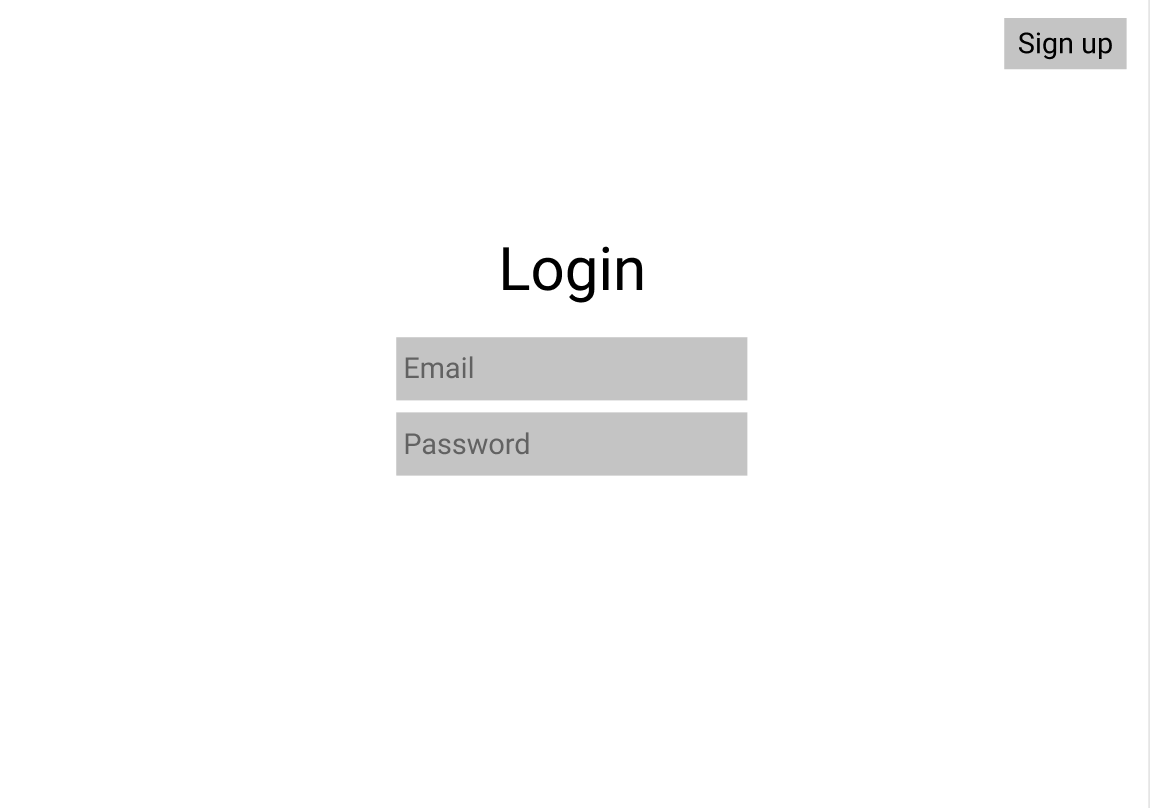
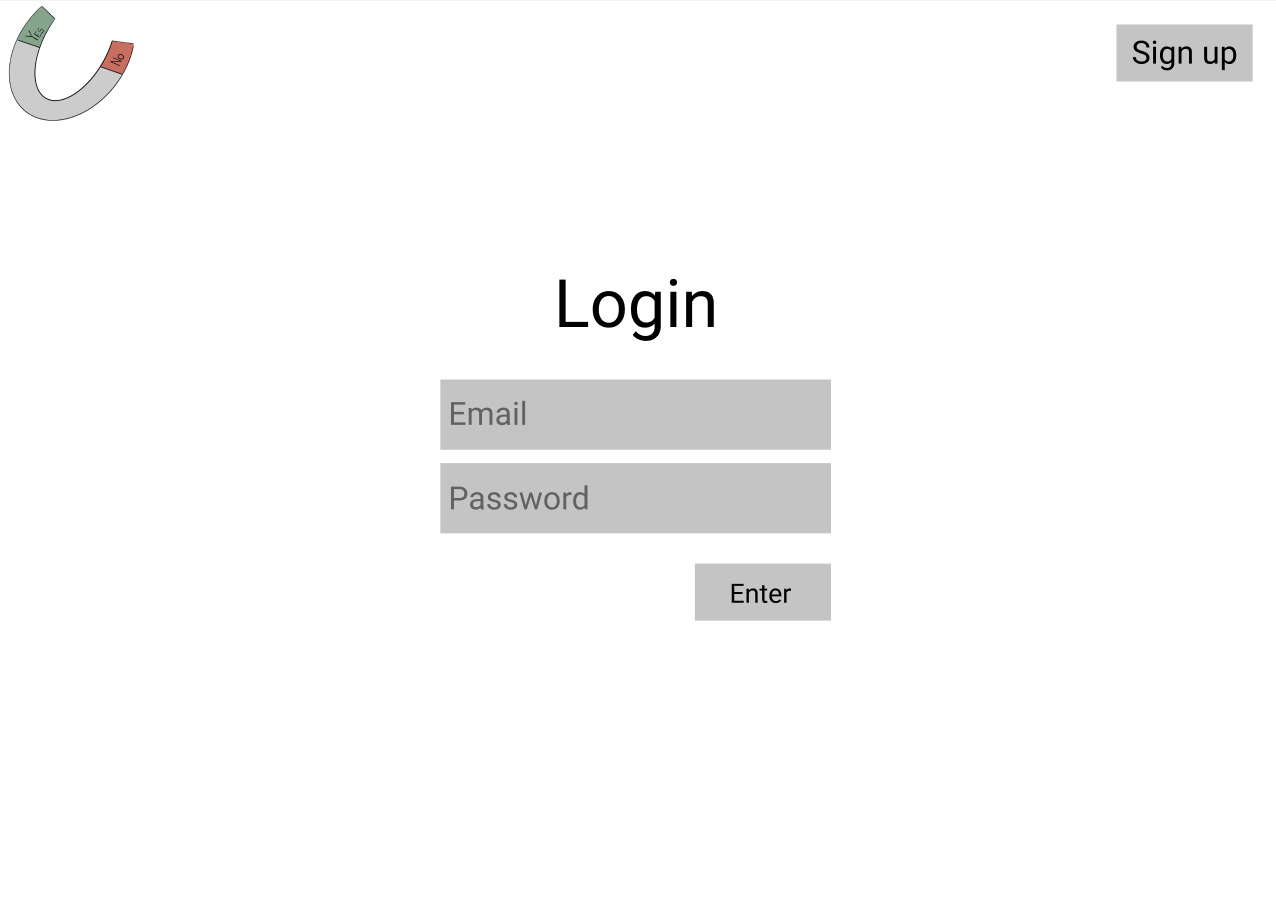
Updated all the mockups

diff --git a/designdocument/Design.md b/designdocument/Design.md
@@ -68,14 +68,39 @@ cloud-based web-application.
 ## User Screens Mock-Ups
 
 ### Front Page
+The frontpage where one can choose between sing up, login or entering a pollcode.
+As of now, one has to hit enter after writing in a valid pollcode to access poll.
+Might consider adding a button for it.
+
 ![](mockups/Startpage.png "")
 
 ### Login and Sign Up Pages
+Some rather standard pages for login and sign up.
+Might be reasonable to only have one field for name, 
+since we will most likely be adding them together.
 ![](mockups/Loginpage.png "")
 ![](mockups/Signuppage.png "")
 
 ### Home Page
-![](mockups/Homepage.png "")
+The homepage is used to give an overview.
+The active user can on the "current" tab see their current active polls.
+On the "closed" tab they can look at closed polls. 
+Has added some different variants of how it may look,
+depending on if it was created with a set closing date or not. 
+And how to know if the poll is only for registered users.
+Considering adding the name of the active user as part ot the title.
+![](mockups/Homepage_current.png "")
+![](mockups/Homepage_closed.png "")
+
+### Create
+Here is a form to create a poll. 
+One checkbox gives the creator the option of only making the poll available to registered users.
+Another checkbox makes it possible to decide not to have a predefined date for when the poll closes.
+If the creator decides they want to manually close the poll themselves, 
+they will not have the option to choose closing date and time. 
+![](mockups/Createpage.png "")
+![](mockups/Createpage_manual.png "")
+
 
 ### Vote Page
 ![](mockups/Votepage.png "")
